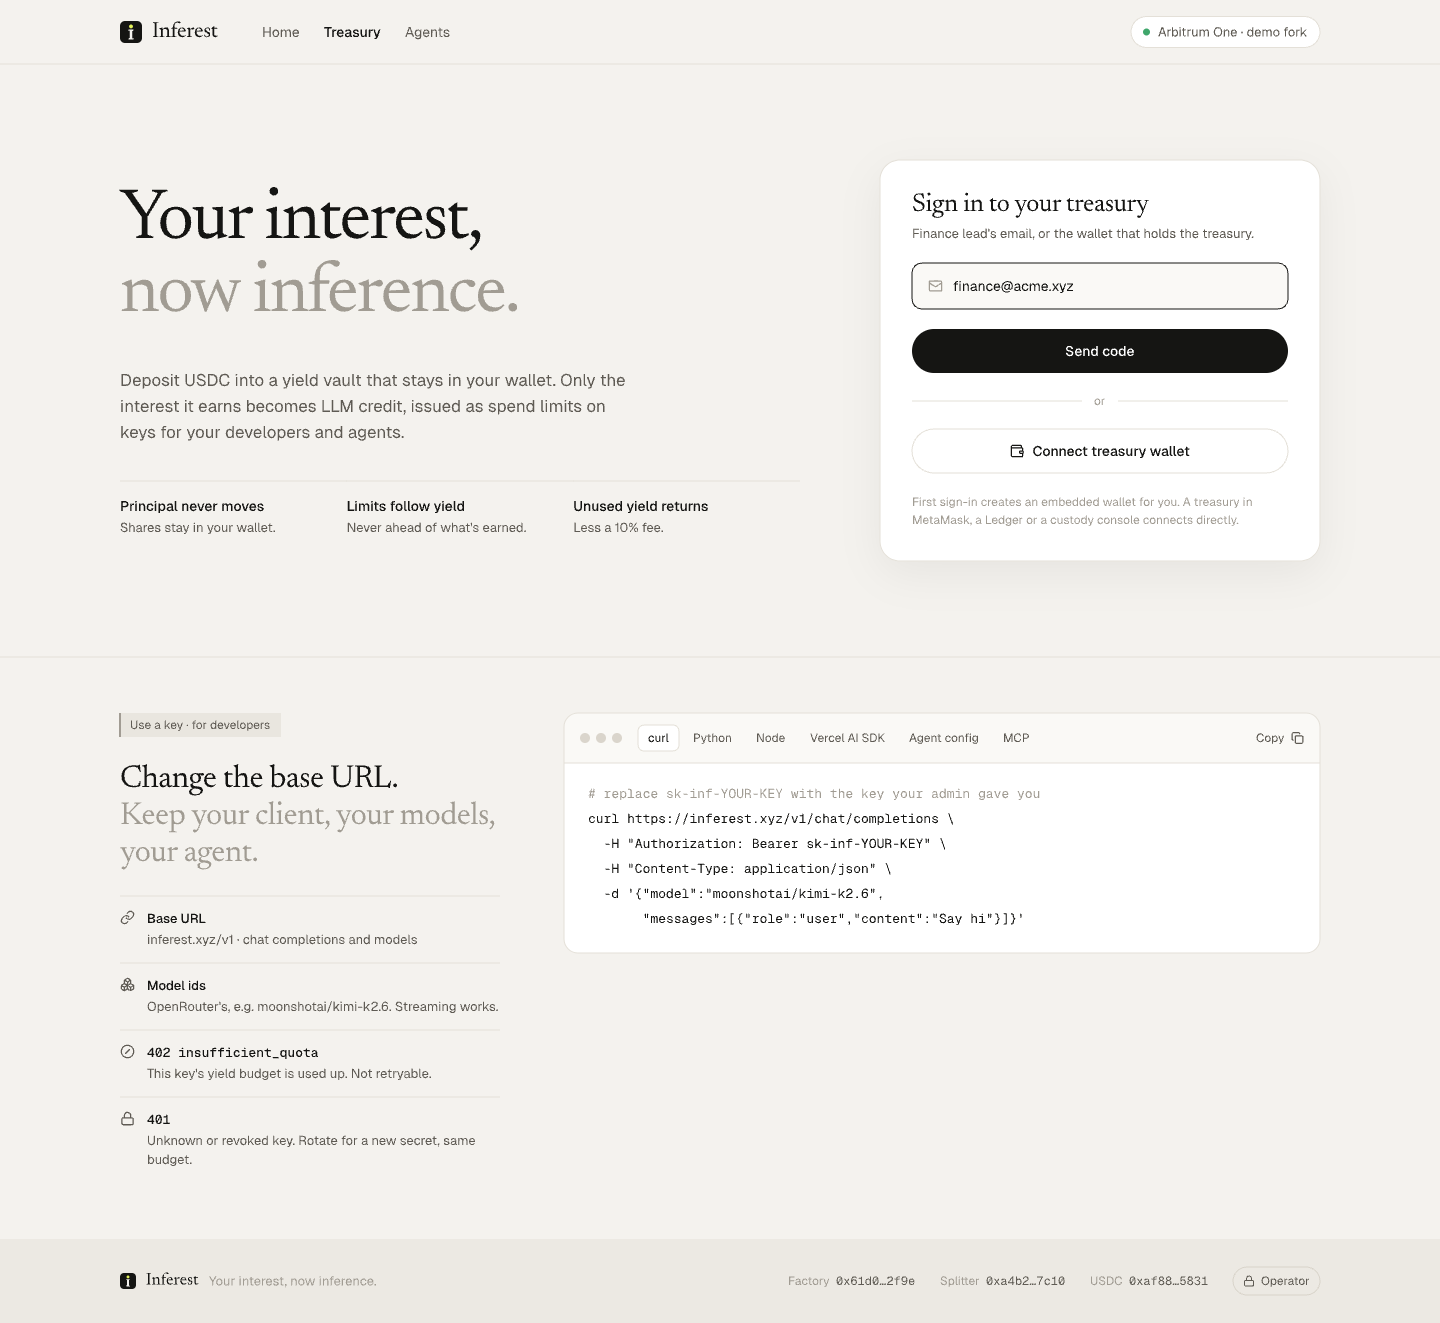
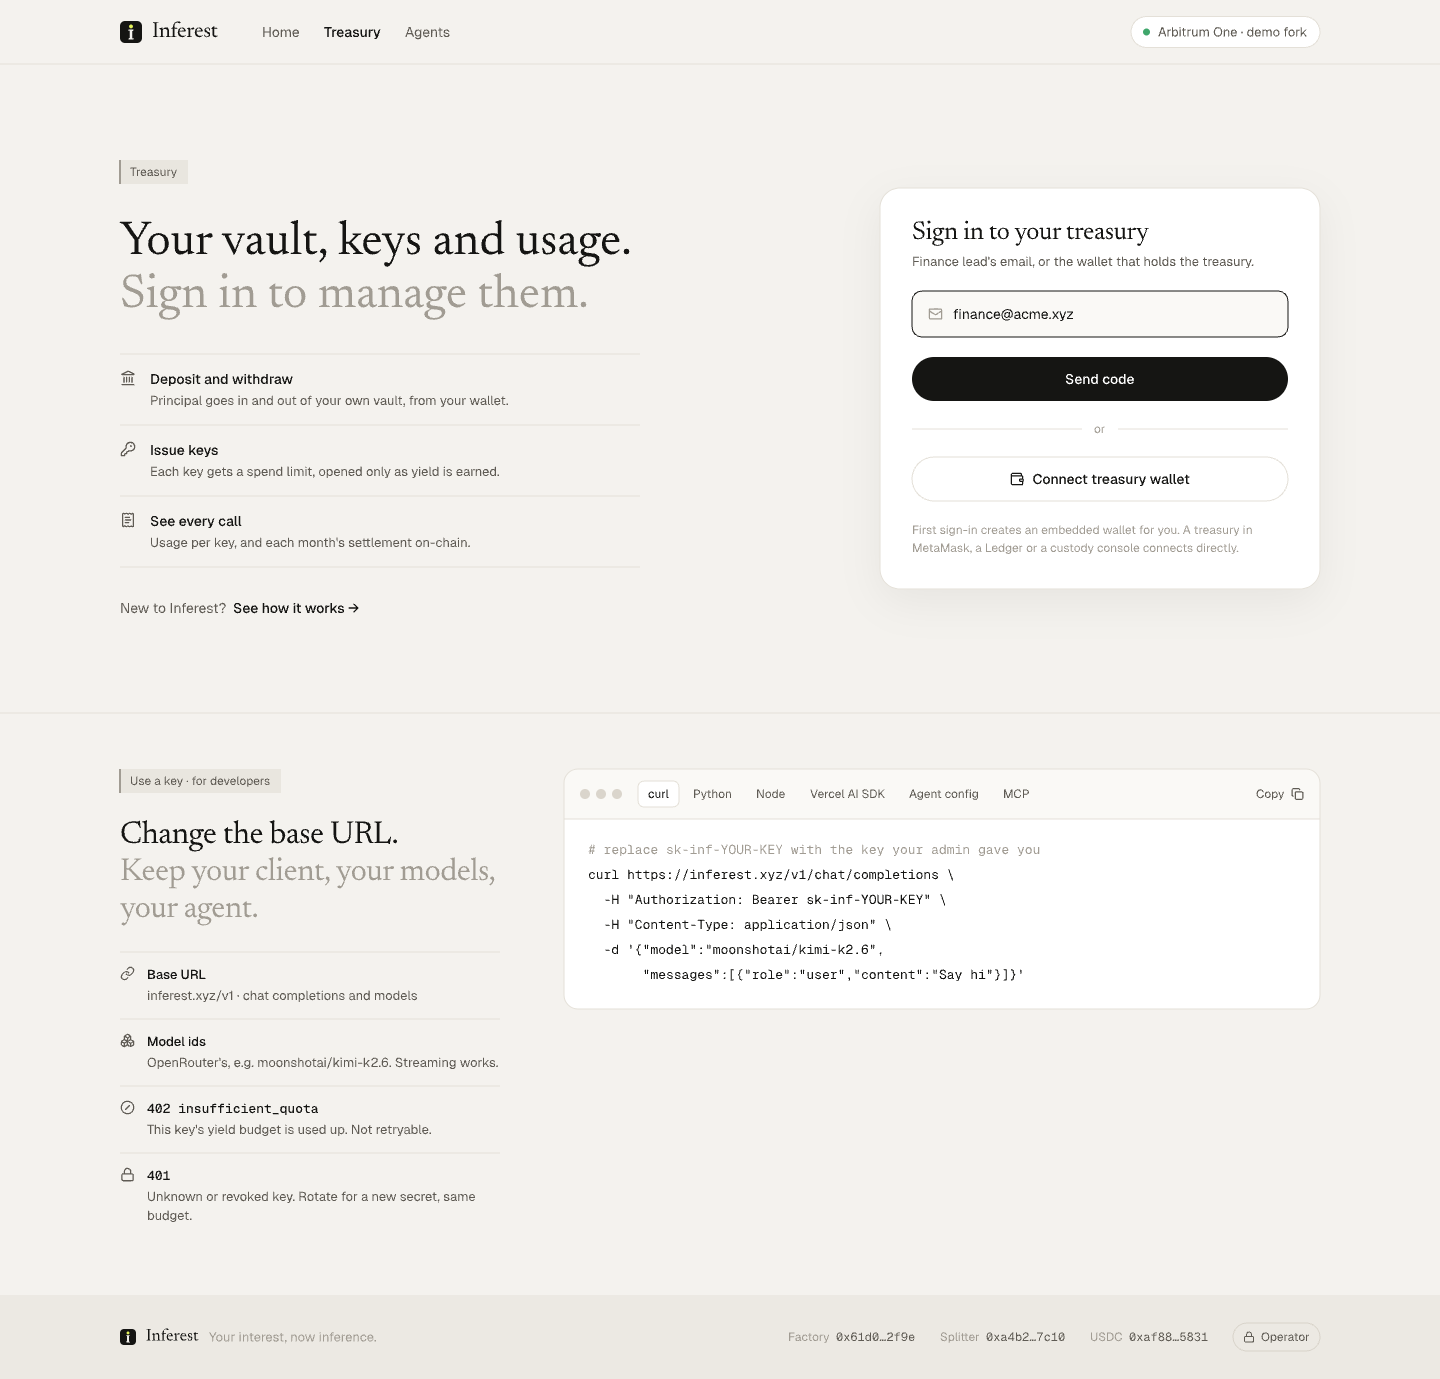
The signed-out Treasury page opens with a Treasury intro instead of the Home pitch
The design replaced the left column of the sign-in hero: a Treasury tag, "Your vault, keys and usage. Sign in to manage them.", three rows on what the page does, and a link to How it works on Home. The spec row and the PNG export follow the design.

diff --git a/app/dashboard/treasury.html b/app/dashboard/treasury.html
@@ -27,14 +27,15 @@
 
   <section class="hero out-only">
     <div class="wrap">
-      <div class="pitch">
-        <h1>Your interest,<span class="second">now inference.</span></h1>
-        <p>Deposit USDC into a yield vault that stays in your wallet. Only the interest it earns becomes LLM credit, issued as spend limits on keys for your developers and agents.</p>
-        <div class="facts">
-          <div><b>Principal never moves</b><span>Shares stay in your wallet.</span></div>
-          <div><b>Limits follow yield</b><span>Never ahead of what's earned.</span></div>
-          <div><b>Unused yield returns</b><span>Less a 10% fee.</span></div>
-        </div>
+      <div class="intro">
+        <div><span class="tag">Treasury</span></div>
+        <h1>Your vault, keys and usage.<span class="second">Sign in to manage them.</span></h1>
+        <ul class="notes inside">
+          <li><i class="noteicon"><svg width="16" height="16" viewBox="0 0 24 24" fill="none" stroke="currentColor" stroke-width="2" stroke-linecap="round" stroke-linejoin="round" aria-hidden="true"><line x1="3" x2="21" y1="22" y2="22"/><line x1="6" x2="6" y1="18" y2="11"/><line x1="10" x2="10" y1="18" y2="11"/><line x1="14" x2="14" y1="18" y2="11"/><line x1="18" x2="18" y1="18" y2="11"/><polygon points="12 2 20 7 4 7"/></svg></i><div><b>Deposit and withdraw</b><span>Principal goes in and out of your own vault, from your wallet.</span></div></li>
+          <li><i class="noteicon"><svg width="16" height="16" viewBox="0 0 24 24" fill="none" stroke="currentColor" stroke-width="2" stroke-linecap="round" stroke-linejoin="round" aria-hidden="true"><path d="M2.586 17.414A2 2 0 0 0 2 18.828V21a1 1 0 0 0 1 1h3a1 1 0 0 0 1-1v-1a1 1 0 0 1 1-1h1a1 1 0 0 0 1-1v-1a1 1 0 0 1 1-1h.172a2 2 0 0 0 1.414-.586l.814-.814a6.5 6.5 0 1 0-4-4z"/><circle cx="16.5" cy="7.5" r=".5" fill="currentColor"/></svg></i><div><b>Issue keys</b><span>Each key gets a spend limit, opened only as yield is earned.</span></div></li>
+          <li><i class="noteicon"><svg width="16" height="16" viewBox="0 0 24 24" fill="none" stroke="currentColor" stroke-width="2" stroke-linecap="round" stroke-linejoin="round" aria-hidden="true"><path d="M4 2v20l2-1 2 1 2-1 2 1 2-1 2 1 2-1 2 1V2l-2 1-2-1-2 1-2-1-2 1-2-1-2 1Z"/><path d="M14 8H8"/><path d="M16 12H8"/><path d="M13 16H8"/></svg></i><div><b>See every call</b><span>Usage per key, and each month's settlement on-chain.</span></div></li>
+        </ul>
+        <p class="homelink">New to Inferest? <a href="/#how">See how it works →</a></p>
       </div>
       <div class="card signin" id="signin">
         <div>

diff --git a/app/dashboard/styles.css b/app/dashboard/styles.css
@@ -80,6 +80,16 @@ h1 .second, h2 .second { display: block; color: var(--ink-3); }
 .facts div { flex: 1; padding: 16px 24px 0 0; border-top: 1px solid var(--line); }
 .facts b { display: block; font-weight: 500; }
 .facts span { font-size: 13px; color: var(--ink-2); }
+.intro { flex: 1; display: flex; flex-direction: column; gap: 32px; }
+.intro h1 { font-size: 48px; line-height: 1.1; }
+.intro .notes { max-width: 520px; border-top: 1px solid var(--line); }
+.intro .notes li { gap: 14px; padding: 16px 0; border-top: 0; border-bottom: 1px solid var(--line); }
+.intro .notes b { font-size: 14px; line-height: 1.3; margin-bottom: 4px; }
+.intro .notes span { display: block; line-height: 1.3; }
+.intro .noteicon { padding-top: 1px; }
+.homelink { margin: 0; font-size: 14px; color: var(--ink-2); }
+.homelink a { color: var(--ink); font-weight: 500; text-decoration: none; margin-left: 2px; }
+.homelink a:hover { text-decoration: underline; }
 .signin { width: 440px; flex: none; padding: 32px; border-radius: 20px; display: flex; flex-direction: column; gap: 20px; box-shadow: 0 12px 40px #1A181410; }
 .signin h3 { margin: 0 0 6px; font: 26px var(--serif); letter-spacing: -.4px; font-weight: 400; }
 .signin p { margin: 0; font-size: 13px; color: var(--ink-2); }
@@ -224,7 +234,7 @@ details.operator[open] { display: flex; gap: 8px; align-items: center; }
 .operatorfield input { width: 200px; }
 
 @media (max-width: 900px) {
-  h1 { font-size: 36px; } .pitch h1 { font-size: 48px; } .figure b { font-size: 48px; }
+  h1 { font-size: 36px; } .pitch h1 { font-size: 48px; } .intro h1 { font-size: 36px; } .figure b { font-size: 48px; }
   .hero .wrap, .treasury .grid, .split { flex-direction: column; align-items: stretch; }
   .signin, .side, .explain { width: auto; }
   .breakdown, .facts { flex-wrap: wrap; row-gap: 16px; } .breakdown div, .facts div { flex-basis: 50%; }

diff --git a/docs/superpowers/specs/2026-09-26-treasury-page-design.md b/docs/superpowers/specs/2026-09-26-treasury-page-design.md
@@ -12,7 +12,7 @@ The demo works but looks like a debug console. A judge or a treasury lead should
 
 | State | When | Shows |
 |---|---|---|
-| Signed out | no session and no operator token | Hero "Your interest, / now inference." with three facts (principal never moves, limits follow yield, unused yield returns less 10%) and the sign-in card (email → code, or Connect treasury wallet). Below it, Use a key with `sk-inf-YOUR-KEY`. Footer. |
+| Signed out | no session and no operator token | A Treasury intro: the Treasury tag, "Your vault, keys and usage. / Sign in to manage them.", three rows of what the page does (deposit and withdraw, issue keys, see every call) and a "New to Inferest? See how it works" link to Home's How it works, beside the sign-in card (email → code, or Connect treasury wallet). Below it, Use a key with `sk-inf-YOUR-KEY`. Footer. |
 | No vault yet | signed in, no vault for this login | Treasury section with a four-step checklist (demo funds, create vault and deposit, yield accrues, settle) and the deposit card as "Create vault and deposit". Keys section with its empty state and the create form disabled. Activity. Footer. |
 | Signed in | signed in, a vault | Treasury, Keys, Use a key, Activity, footer, as below. |
 
